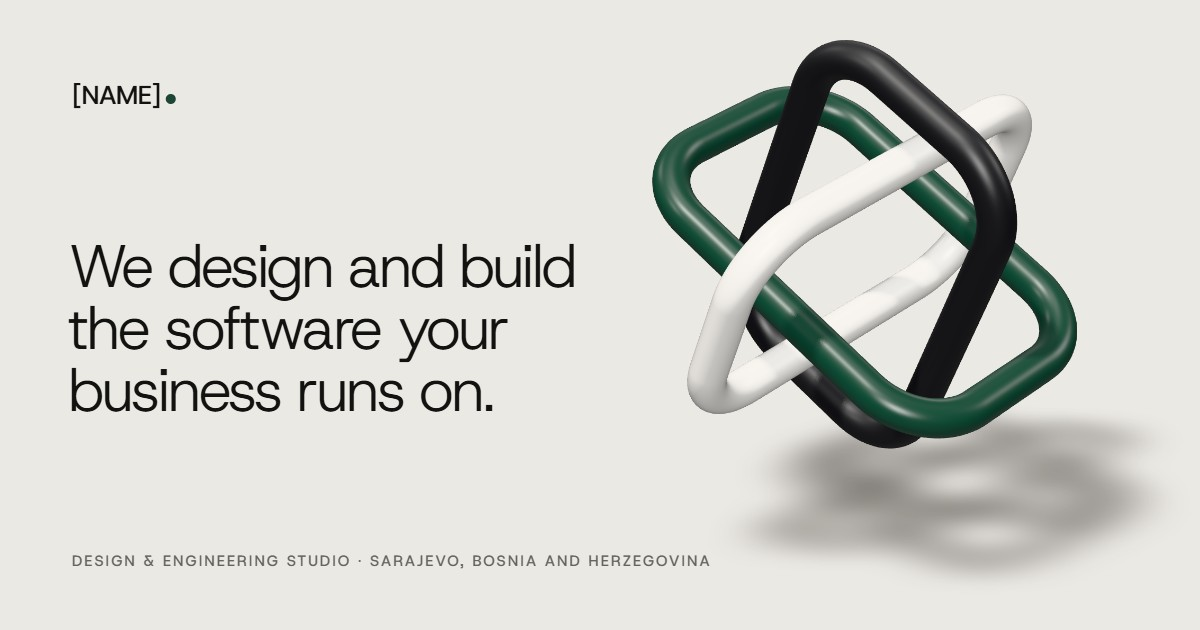
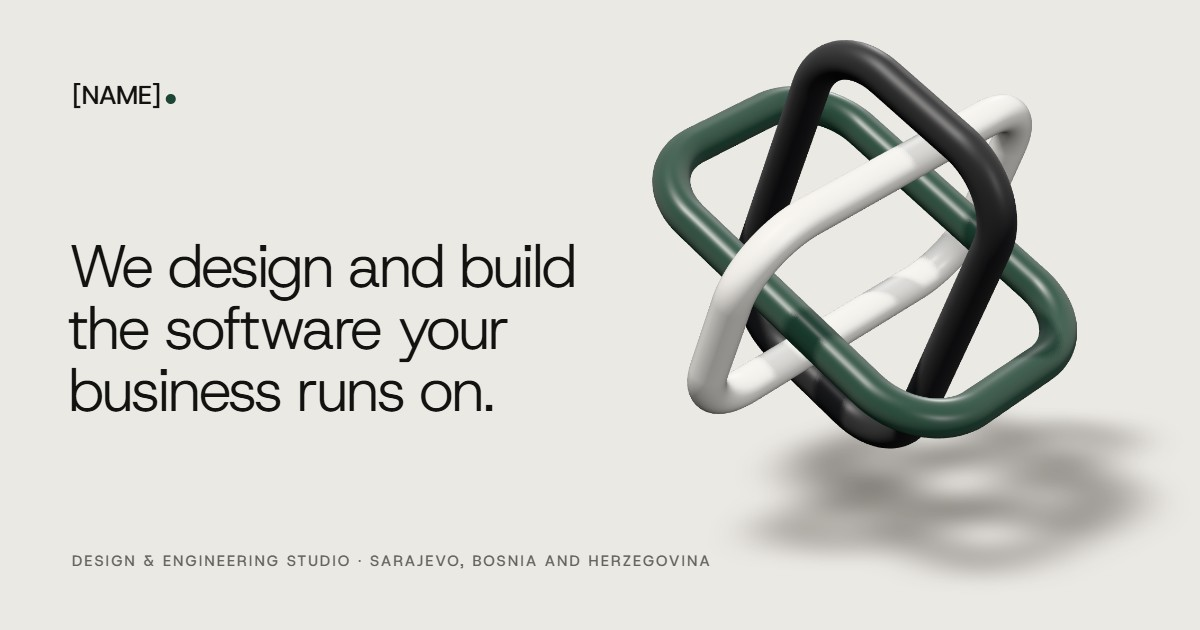
perf: light the rings without an environment map
Prefiltering RoomEnvironment (PMREM) compiled shaders synchronously, close to
a second on a cold cache. A hemisphere light and soft fill, top and rim lights
give the clearcoat its sheen instead; posters, social cards and the touch icon
are re-rendered with the new light.

diff --git a/src/scripts/rings/scene.ts b/src/scripts/rings/scene.ts
@@ -6,13 +6,11 @@ import {
   NeutralToneMapping,
   PCFShadowMap,
   PerspectiveCamera,
-  PMREMGenerator,
   Scene,
   Vector3,
   type MeshPhysicalMaterial,
   type WebGLRenderer,
 } from 'three';
-import { RoomEnvironment } from 'three/addons/environments/RoomEnvironment.js';
 import { FLOOR_Y, LIGHT_DIRECTION } from '../../lib/rings/config';
 import { cameraDistance, viewOffset, type Stage } from '../../lib/rings/layout';
 import { lerp } from '../../lib/rings/math';
@@ -53,7 +51,7 @@ export interface RingsScene {
   dispose(): void;
 }
 
-/** Builds the scene on `renderer`; `pause` lets the page breathe after the heaviest step (prefiltering the environment). */
+/** Builds the scene on `renderer`; `pause` lets the page breathe between the heavier steps. */
 export async function createRingsScene(
   renderer: WebGLRenderer,
   colors: Record<RingKey, string>,
@@ -69,14 +67,6 @@ export async function createRingsScene(
   renderer.shadowMap.autoUpdate = false;
 
   const scene = new Scene();
-  const pmrem = new PMREMGenerator(renderer);
-  const room = new RoomEnvironment();
-  const environment = pmrem.fromScene(room, 0.04).texture;
-  room.dispose();
-  pmrem.dispose();
-  scene.environment = environment;
-  scene.environmentIntensity = 0.5;
-  await pause();
 
   // Key light from the original shader's direction; its shadow map carries the shadows the rings cast on each other.
   const key = new DirectionalLight(new Color(1, 0.972, 0.935), 2.3);
@@ -88,8 +78,18 @@ export async function createRingsScene(
   key.shadow.normalBias = 0.02;
   Object.assign(key.shadow.camera, { left: -2.6, right: 2.6, top: 2.6, bottom: -2.6, near: 1, far: 11 });
   key.shadow.camera.updateProjectionMatrix();
-  // Top-lit ambient with a paper-coloured bounce from below, like the original's sky and bounce terms.
-  scene.add(key, key.target, new HemisphereLight(0xffffff, new Color('#ebe9e4').multiplyScalar(0.45), 0.5));
+  // No environment map: prefiltering one (PMREM) compiles shaders synchronously — close to a second on a cold cache.
+  // The original shader had none either; its sky, bounce and fresnel terms become a hemisphere light and three soft
+  // lights (fill, top, rim) that give the clearcoat its sheen.
+  const sky = new HemisphereLight(new Color(0.95, 0.975, 1), new Color('#ebe9e4').multiplyScalar(0.35), 1.7);
+  const fill = new DirectionalLight(0xffffff, 0.8);
+  fill.position.set(0.8, 0.35, 1);
+  const top = new DirectionalLight(0xffffff, 0.7);
+  top.position.set(-0.1, 1, 0.35);
+  const rim = new DirectionalLight(0xffffff, 0.8);
+  rim.position.set(0.2, 0.6, -1);
+  scene.add(key, key.target, sky, fill, top, rim);
+  await pause();
 
   const materials: Record<RingKey, MeshPhysicalMaterial> = {
     design: ringMaterial('design', colors.design),
@@ -166,7 +166,6 @@ export async function createRingsScene(
       meshes.engineering.geometry.dispose();
       accent.dispose();
       floor.dispose();
-      environment.dispose();
     },
   };
 }

diff --git a/src/scripts/rings/materials.ts b/src/scripts/rings/materials.ts
@@ -12,14 +12,22 @@ export function tokenColors(root: Element = document.documentElement): Record<Ri
   };
 }
 
+interface Finish {
+  roughness: number;
+  clearcoat: number;
+  clearcoatRoughness: number;
+  /** Grazing-angle lift standing in for the reflected sky of the original shader (there is no environment map). */
+  sheen: number;
+}
+
 /** Porcelain, satin graphite and glazed green ceramic (spec §9.3). */
-const FINISH: Record<RingKey, { roughness: number; clearcoat: number; clearcoatRoughness: number }> = {
-  design: { roughness: 0.42, clearcoat: 0.6, clearcoatRoughness: 0.35 },
-  engineering: { roughness: 0.5, clearcoat: 0.4, clearcoatRoughness: 0.45 },
-  automation: { roughness: 0.4, clearcoat: 0.5, clearcoatRoughness: 0.35 },
+const FINISH: Record<RingKey, Finish> = {
+  design: { roughness: 0.42, clearcoat: 0.6, clearcoatRoughness: 0.35, sheen: 0 },
+  engineering: { roughness: 0.5, clearcoat: 0.4, clearcoatRoughness: 0.45, sheen: 0.18 },
+  automation: { roughness: 0.4, clearcoat: 0.5, clearcoatRoughness: 0.35, sheen: 0.3 },
 };
 
 export function ringMaterial(key: RingKey, color: string): MeshPhysicalMaterial {
   // Transparent from the start (at full opacity), so dimming a ring for the hover highlight never recompiles its shader.
-  return new MeshPhysicalMaterial({ color: new Color(color), ...FINISH[key], transparent: true });
+  return new MeshPhysicalMaterial({ color: new Color(color), ...FINISH[key], sheenColor: new Color(0xffffff), sheenRoughness: 0.8, transparent: true });
 }
